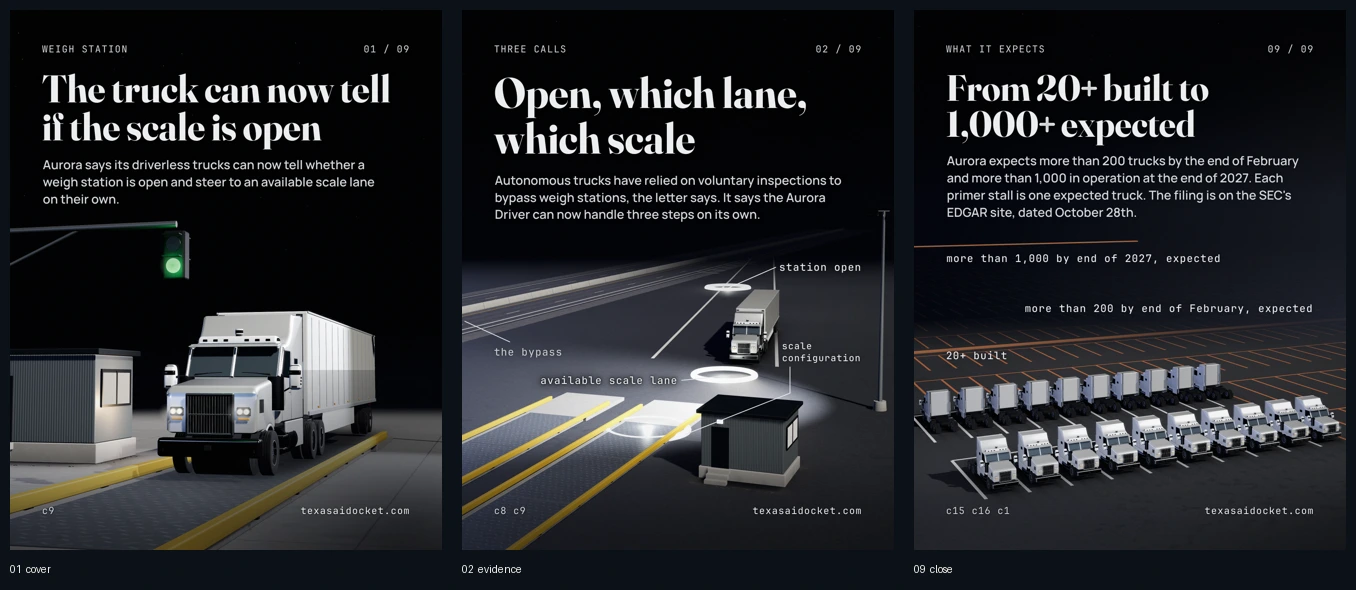
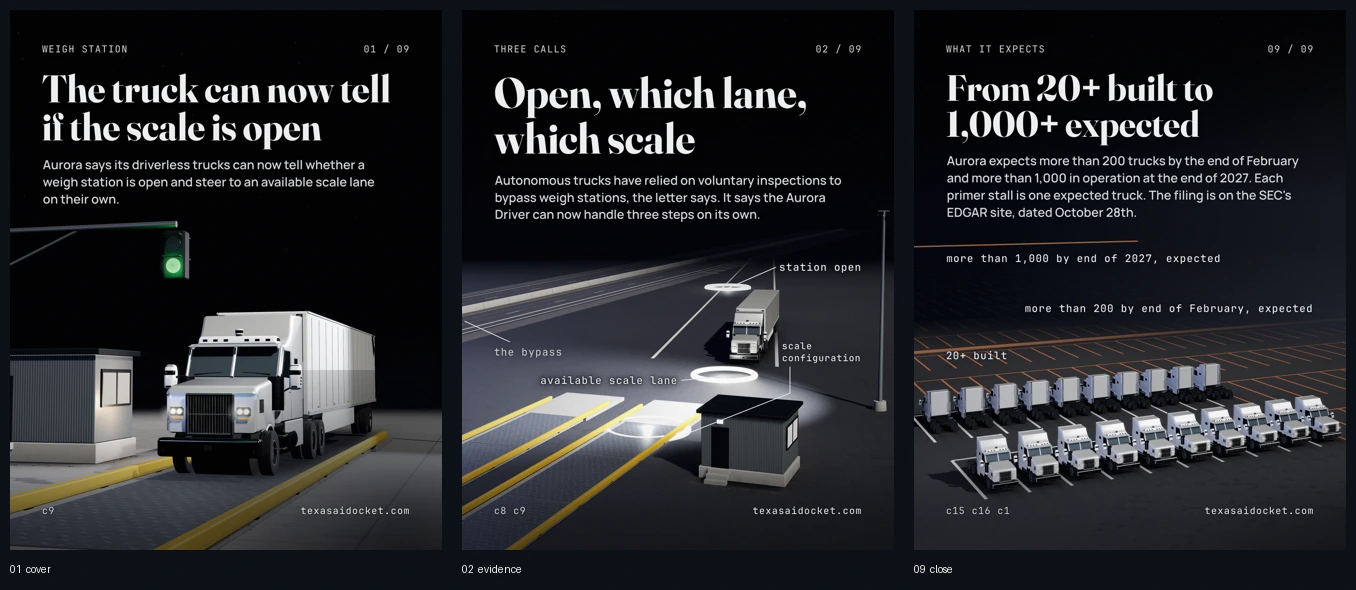
Carousel no. 67: images re-encoded and bound to the seventh audition reading, site rebuilt
Actor: daily

Changed region(s): [[0.7743, 0.122, 0.8982, 0.2441]]

diff --git a/docs/articles/2026-11-03/index.html b/docs/articles/2026-11-03/index.html
@@ -155,7 +155,7 @@
       <a class="edition-read" href="#story">Read the story <span aria-hidden="true">↓</span></a>
     </header>
     <figure class="edition-gallery" aria-label="Visual edition">
-      <div class="edition-track" id="visual-edition" tabindex="0" role="region" aria-roledescription="carousel" aria-label="Visual edition slides"><figure class="edition-slide" role="group" aria-label="Slide 1 of 9"><img src="../../media/articles/2026-11-03/slide-01-1080-56629dde5c4e.webp" srcset="../../media/articles/2026-11-03/slide-01-540-86cd0584dafa.webp 540w, ../../media/articles/2026-11-03/slide-01-1080-56629dde5c4e.webp 1080w" sizes="(max-width: 540px) calc(100vw - 48px), (max-width: 864px) 512px, 460px" width="1080" height="1350" decoding="async" loading="eager" fetchpriority="high" alt="Aurora says its driverless trucks can now tell whether a weigh station is open and steer to an available scale lane on their own."></figure><figure class="edition-slide" role="group" aria-label="Slide 2 of 9"><img src="../../media/articles/2026-11-03/slide-02-1080-6651e0a8b3ce.webp" srcset="../../media/articles/2026-11-03/slide-02-540-e216ca441f04.webp 540w, ../../media/articles/2026-11-03/slide-02-1080-6651e0a8b3ce.webp 1080w" sizes="(max-width: 540px) calc(100vw - 48px), (max-width: 864px) 512px, 460px" width="1080" height="1350" decoding="async" loading="lazy" alt="Autonomous trucks have relied on voluntary inspections to bypass weigh stations, the letter says. It says the Aurora Driver can now handle three steps on its own."></figure><figure class="edition-slide" role="group" aria-label="Slide 3 of 9"><img src="../../media/articles/2026-11-03/slide-03-1080-150b0cca44a0.webp" srcset="../../media/articles/2026-11-03/slide-03-540-c8d2fcc16e0c.webp 540w, ../../media/articles/2026-11-03/slide-03-1080-150b0cca44a0.webp 1080w" sizes="(max-width: 540px) calc(100vw - 48px), (max-width: 864px) 512px, 460px" width="1080" height="1350" decoding="async" loading="lazy" alt="Aurora says that in November its trucks will drive directly to sites for several customers, through security checkpoints."></figure><figure class="edition-slide" role="group" aria-label="Slide 4 of 9"><img src="../../media/articles/2026-11-03/slide-04-1080-c5b32a712b66.webp" srcset="../../media/articles/2026-11-03/slide-04-540-f51e92dcf1b1.webp 540w, ../../media/articles/2026-11-03/slide-04-1080-c5b32a712b66.webp 1080w" sizes="(max-width: 540px) calc(100vw - 48px), (max-width: 864px) 512px, 460px" width="1080" height="1350" decoding="async" loading="lazy" alt="The letter says production is accelerating. The Aurora Driver passed 500,000 commercial driverless miles in September with 100% on-time delivery since launch, by Aurora&#x27;s own count."></figure><figure class="edition-slide" role="group" aria-label="Slide 5 of 9"><img src="../../media/articles/2026-11-03/slide-05-1080-05130e7d7c33.webp" srcset="../../media/articles/2026-11-03/slide-05-540-c860b65f52ce.webp 540w, ../../media/articles/2026-11-03/slide-05-1080-05130e7d7c33.webp 1080w" sizes="(max-width: 540px) calc(100vw - 48px), (max-width: 864px) 512px, 460px" width="1080" height="1350" decoding="async" loading="lazy" alt="Material availability, component quality and problems found in end-of-line testing held the ramp back, the letter says. Aurora now expects 20 trucks a week in early December."></figure><figure class="edition-slide" role="group" aria-label="Slide 6 of 9"><img src="../../media/articles/2026-11-03/slide-06-1080-74fca494a3d2.webp" srcset="../../media/articles/2026-11-03/slide-06-540-0ea0e36152b6.webp 540w, ../../media/articles/2026-11-03/slide-06-1080-74fca494a3d2.webp 1080w" sizes="(max-width: 540px) calc(100vw - 48px), (max-width: 864px) 512px, 460px" width="1080" height="1350" decoding="async" loading="lazy" alt="Third quarter revenue and operating loss at one scale. The loss includes stock-based compensation. Aurora expects about $9 million of revenue for 2026."></figure><figure class="edition-slide" role="group" aria-label="Slide 7 of 9"><img src="../../media/articles/2026-11-03/slide-07-1080-7fb6db83536e.webp" srcset="../../media/articles/2026-11-03/slide-07-540-77cbb8848697.webp 540w, ../../media/articles/2026-11-03/slide-07-1080-7fb6db83536e.webp 1080w" sizes="(max-width: 540px) calc(100vw - 48px), (max-width: 864px) 512px, 460px" width="1080" height="1350" decoding="async" loading="lazy" alt="Dallas to Houston is Aurora&#x27;s own route. Charger Logistics plans to start between Dallas and Laredo under a non-binding MOU for 500 trucks, with delivery expected in 2027 and 2028. Routes drawn straight between places. New Braunfels is marked at Comal County&#x27;s center."></figure><figure class="edition-slide" role="group" aria-label="Slide 8 of 9"><img src="../../media/articles/2026-11-03/slide-08-1080-9d5c89c06f80.webp" srcset="../../media/articles/2026-11-03/slide-08-540-473c7043ee92.webp 540w, ../../media/articles/2026-11-03/slide-08-1080-9d5c89c06f80.webp 1080w" sizes="(max-width: 540px) calc(100vw - 48px), (max-width: 864px) 512px, 460px" width="1080" height="1350" decoding="async" loading="lazy" alt="The letter says FMCSA granted a five-year exemption letting driverless trucks use cab-mounted warning beacons in place of warning devices set out by hand."></figure><figure class="edition-slide" role="group" aria-label="Slide 9 of 9"><img src="../../media/articles/2026-11-03/slide-09-1080-19889e5a16f4.webp" srcset="../../media/articles/2026-11-03/slide-09-540-5d567ee023b1.webp 540w, ../../media/articles/2026-11-03/slide-09-1080-19889e5a16f4.webp 1080w" sizes="(max-width: 540px) calc(100vw - 48px), (max-width: 864px) 512px, 460px" width="1080" height="1350" decoding="async" loading="lazy" alt="Aurora expects more than 200 trucks by the end of February and more than 1,000 in operation at the end of 2027. Each primer stall is one expected truck. The filing is on the SEC&#x27;s EDGAR site, dated October 28th."></figure></div>
+      <div class="edition-track" id="visual-edition" tabindex="0" role="region" aria-roledescription="carousel" aria-label="Visual edition slides"><figure class="edition-slide" role="group" aria-label="Slide 1 of 9"><img src="../../media/articles/2026-11-03/slide-01-1080-56629dde5c4e.webp" srcset="../../media/articles/2026-11-03/slide-01-540-86cd0584dafa.webp 540w, ../../media/articles/2026-11-03/slide-01-1080-56629dde5c4e.webp 1080w" sizes="(max-width: 540px) calc(100vw - 48px), (max-width: 864px) 512px, 460px" width="1080" height="1350" decoding="async" loading="eager" fetchpriority="high" alt="Aurora says its driverless trucks can now tell whether a weigh station is open and steer to an available scale lane on their own."></figure><figure class="edition-slide" role="group" aria-label="Slide 2 of 9"><img src="../../media/articles/2026-11-03/slide-02-1080-6651e0a8b3ce.webp" srcset="../../media/articles/2026-11-03/slide-02-540-e216ca441f04.webp 540w, ../../media/articles/2026-11-03/slide-02-1080-6651e0a8b3ce.webp 1080w" sizes="(max-width: 540px) calc(100vw - 48px), (max-width: 864px) 512px, 460px" width="1080" height="1350" decoding="async" loading="lazy" alt="Autonomous trucks have relied on voluntary inspections to bypass weigh stations, the letter says. It says the Aurora Driver can now handle three steps on its own."></figure><figure class="edition-slide" role="group" aria-label="Slide 3 of 9"><img src="../../media/articles/2026-11-03/slide-03-1080-150b0cca44a0.webp" srcset="../../media/articles/2026-11-03/slide-03-540-c8d2fcc16e0c.webp 540w, ../../media/articles/2026-11-03/slide-03-1080-150b0cca44a0.webp 1080w" sizes="(max-width: 540px) calc(100vw - 48px), (max-width: 864px) 512px, 460px" width="1080" height="1350" decoding="async" loading="lazy" alt="Aurora says that in November its trucks will drive directly to sites for several customers, through security checkpoints."></figure><figure class="edition-slide" role="group" aria-label="Slide 4 of 9"><img src="../../media/articles/2026-11-03/slide-04-1080-39c7557587f8.webp" srcset="../../media/articles/2026-11-03/slide-04-540-9de7665a903a.webp 540w, ../../media/articles/2026-11-03/slide-04-1080-39c7557587f8.webp 1080w" sizes="(max-width: 540px) calc(100vw - 48px), (max-width: 864px) 512px, 460px" width="1080" height="1350" decoding="async" loading="lazy" alt="The letter says production is accelerating. The Aurora Driver passed 500,000 commercial driverless miles in September with 100% on-time delivery since launch, by Aurora&#x27;s own count."></figure><figure class="edition-slide" role="group" aria-label="Slide 5 of 9"><img src="../../media/articles/2026-11-03/slide-05-1080-05130e7d7c33.webp" srcset="../../media/articles/2026-11-03/slide-05-540-c860b65f52ce.webp 540w, ../../media/articles/2026-11-03/slide-05-1080-05130e7d7c33.webp 1080w" sizes="(max-width: 540px) calc(100vw - 48px), (max-width: 864px) 512px, 460px" width="1080" height="1350" decoding="async" loading="lazy" alt="Material availability, component quality and problems found in end-of-line testing held the ramp back, the letter says. Aurora now expects 20 trucks a week in early December."></figure><figure class="edition-slide" role="group" aria-label="Slide 6 of 9"><img src="../../media/articles/2026-11-03/slide-06-1080-74fca494a3d2.webp" srcset="../../media/articles/2026-11-03/slide-06-540-0ea0e36152b6.webp 540w, ../../media/articles/2026-11-03/slide-06-1080-74fca494a3d2.webp 1080w" sizes="(max-width: 540px) calc(100vw - 48px), (max-width: 864px) 512px, 460px" width="1080" height="1350" decoding="async" loading="lazy" alt="Third quarter revenue and operating loss at one scale. The loss includes stock-based compensation. Aurora expects about $9 million of revenue for 2026."></figure><figure class="edition-slide" role="group" aria-label="Slide 7 of 9"><img src="../../media/articles/2026-11-03/slide-07-1080-7fb6db83536e.webp" srcset="../../media/articles/2026-11-03/slide-07-540-77cbb8848697.webp 540w, ../../media/articles/2026-11-03/slide-07-1080-7fb6db83536e.webp 1080w" sizes="(max-width: 540px) calc(100vw - 48px), (max-width: 864px) 512px, 460px" width="1080" height="1350" decoding="async" loading="lazy" alt="Dallas to Houston is Aurora&#x27;s own route. Charger Logistics plans to start between Dallas and Laredo under a non-binding MOU for 500 trucks, with delivery expected in 2027 and 2028. Routes drawn straight between places. New Braunfels is marked at Comal County&#x27;s center."></figure><figure class="edition-slide" role="group" aria-label="Slide 8 of 9"><img src="../../media/articles/2026-11-03/slide-08-1080-9d5c89c06f80.webp" srcset="../../media/articles/2026-11-03/slide-08-540-473c7043ee92.webp 540w, ../../media/articles/2026-11-03/slide-08-1080-9d5c89c06f80.webp 1080w" sizes="(max-width: 540px) calc(100vw - 48px), (max-width: 864px) 512px, 460px" width="1080" height="1350" decoding="async" loading="lazy" alt="The letter says FMCSA granted a five-year exemption letting driverless trucks use cab-mounted warning beacons in place of warning devices set out by hand."></figure><figure class="edition-slide" role="group" aria-label="Slide 9 of 9"><img src="../../media/articles/2026-11-03/slide-09-1080-b3466d915db9.webp" srcset="../../media/articles/2026-11-03/slide-09-540-625a957e1522.webp 540w, ../../media/articles/2026-11-03/slide-09-1080-b3466d915db9.webp 1080w" sizes="(max-width: 540px) calc(100vw - 48px), (max-width: 864px) 512px, 460px" width="1080" height="1350" decoding="async" loading="lazy" alt="Aurora expects more than 200 trucks by the end of February and more than 1,000 in operation at the end of 2027. Each primer stall is one expected truck. The filing is on the SEC&#x27;s EDGAR site, dated October 28th."></figure></div>
       <figcaption class="edition-gallery-caption">
         <span class="edition-gallery-label">The visual edition</span>
         <div class="edition-controls" hidden>
